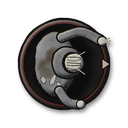
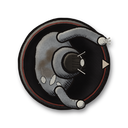
Version C: creator override test and demo arg, psycho heads, posts never bashed
Claude-Session: https://claude.ai/code/session_01HoR6KDjNnKeBhyJgYyUCwz

Changed region(s): [[0.4688, 0.375, 0.6875, 0.5938]]

diff --git a/tools/art/illustrated/tokens.py b/tools/art/illustrated/tokens.py
@@ -177,15 +177,19 @@ def psycho(name, cloth, hair, style):
             cv.stroke([(93, 47), (93 + math.cos(a) * 5, 47 + math.sin(a) * 5)], 0.4, INK, 0.6)
         limb(cv, [(60, 84), (66, 92), (74, 94)], 6.0, fab(cv, cloth, 0.2))
         hand(cv, 76, 94, 2.8, skin)
-        # hood (up), head pushed forward and low
+        # hood (up), head pushed forward and low: greasy hair hangs over the face
         hood = cv.mask().ellipse(66, 63, 11, 11.5, wobble=0.6)
         P(cv, hood, fab(cv, mix(cloth, "#000000", 0.15), 0.2), depth=2.2, soft=0.3, ow=1.6)
-        cv.paint(cv.mask().ellipse(69, 63, 7.0, 8.0), "#141212")
+        cv.paint(cv.mask().ellipse(69, 63, 7.6, 8.4), "#141212")
         head = cv.mask().ellipse(71, 63, 6.8, 7.0)
         P(cv, head, skin, ow=1.3, depth=1.4, hatch=0.3)
-        for k in range(7):   # greasy strands falling forward
-            y = 57 + k * 2.0
-            cv.stroke(catmull([(66, y), (71, y + rnd.normal(0, 0.6)), (76, y + rnd.normal(0, 1.0))], 5), 0.6, hair, 0.95)
+        hair_m = cv.mask().ellipse(70, 63, 6.6, 7.2, wobble=0.5)
+        P(cv, hair_m, fab(cv, hair, 0.25), ow=0.8, depth=1.2, hatch=0.2)
+        for k in range(6):   # strands falling forward past the face
+            y = 58 + k * 2.0
+            cv.stroke(catmull([(70, y), (75, y + rnd.normal(0, 0.6)), (79, y + rnd.normal(0, 1.0))], 5), 0.7,
+                      mix(hair, "#000000", 0.3), 0.95)
+        cv.paint(cv.mask().ellipse(77.2, 63, 1.4, 2.6), skin, 0.9)   # a pale sliver of face
         # drawstrings
         for yy in (58, 68):
             cv.stroke([(74, yy), (79, yy + (yy - 63) * 0.5 + rnd.normal(0, 1))], 0.6, "#cfcac0", 0.9)
@@ -205,12 +209,13 @@ def psycho(name, cloth, hair, style):
         P(cv, tie, fab(cv, "#3a2a35", 0.1), ow=1.0, depth=1.0, hatch=0.2)
         head = cv.mask().ellipse(68, 64, 8.6, 8.2)
         P(cv, head, skin, ow=1.8, depth=1.8)
-        for k in range(9):
-            a = math.pi * (0.55 + k / 8 * 0.9)
-            x, y = 68 + math.cos(a) * 7.5, 64 + math.sin(a) * 7.5
-            cv.stroke([(x, y), (x - 3 + rnd.normal(0, 0.7), y + rnd.normal(0, 1.2))], 0.6, hair, 0.9)
+        # balding: a ring of matted hair around the back and sides, bare crown
+        ring = np.clip(cv.mask().ellipse(66.5, 64, 8.8, 8.6, wobble=0.6).arr - cv.mask().ellipse(69.5, 64, 6.2, 5.8).arr, 0, 1)
+        cv.paint(ring, fab(cv, hair, 0.25), 0.95)
+        cv.hatch(ring, 30, 1.6, 0.4, 0.5)
         for k in range(3):
-            cv.stroke(catmull([(63, 60 + k * 3), (68, 59.5 + k * 3.5), (73, 61 + k * 2.5)], 5), 0.35, hair, 0.8)
+            cv.stroke(catmull([(64, 61 + k * 3), (68, 60.5 + k * 3.5), (71, 62 + k * 2.5)], 5), 0.4, hair, 0.7)
+        cv.paint(cv.mask().ellipse(70.5, 61.5, 2.2, 1.5), "#e0ddd6", 0.6)   # shine on the scalp
         cv.paint(cv.mask().ellipse(76.2, 64, 1.5, 1.4), mix(skin, "#000000", 0.15))
     return finish(cv, name)
 
